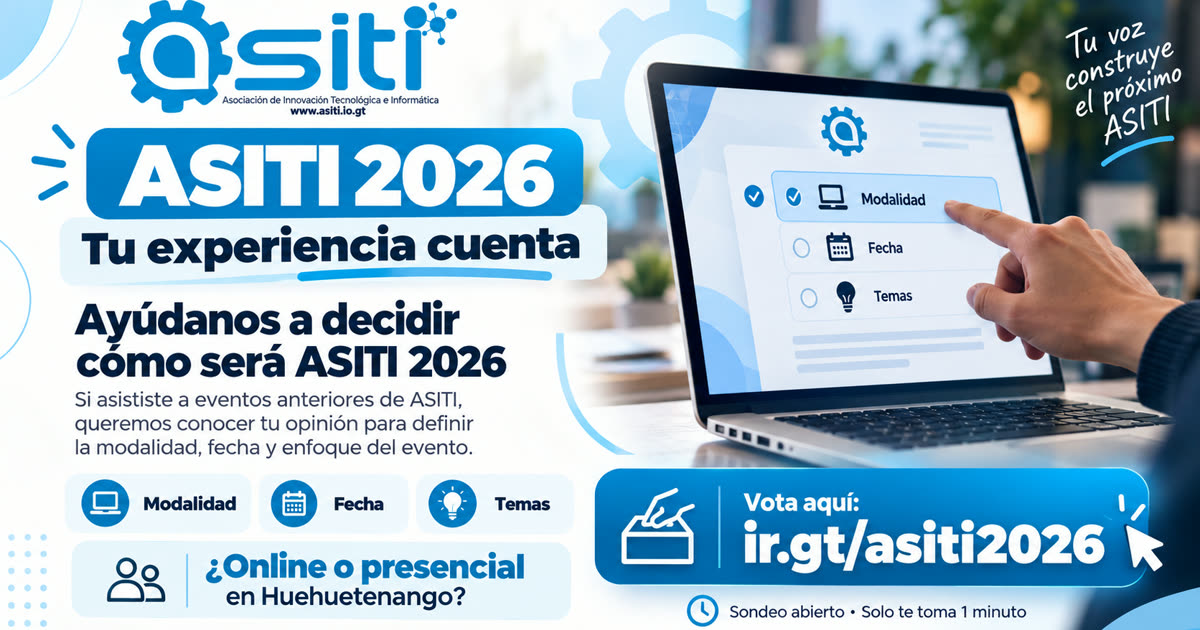
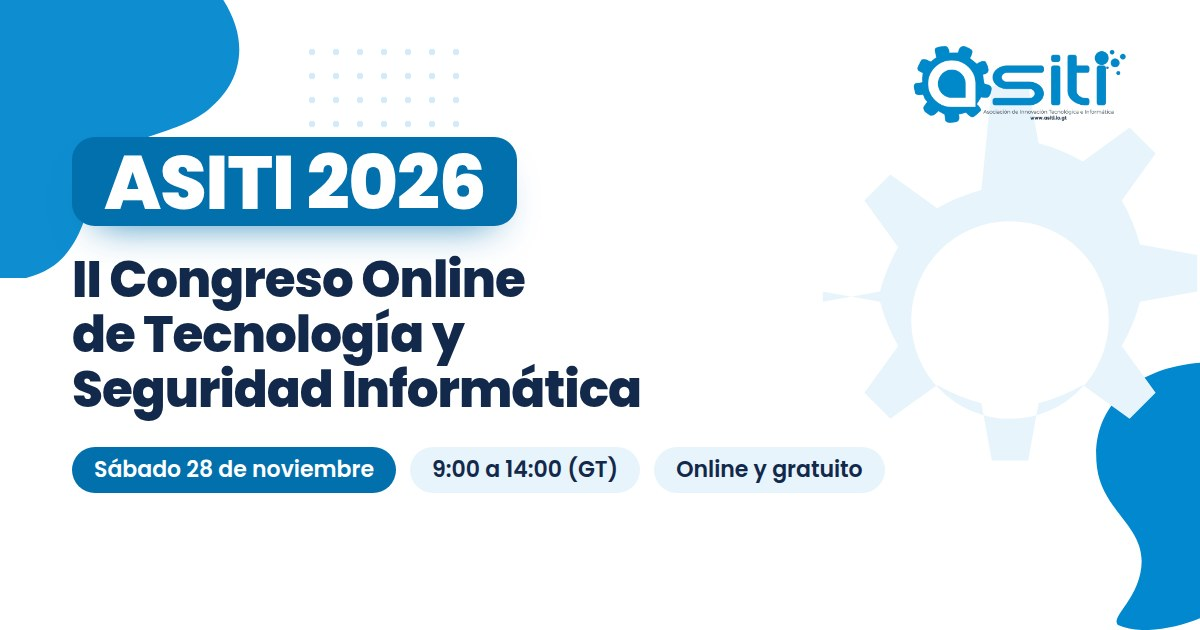
ASITI 2026: home con el congreso online del 28 de noviembre
El sondeo de modalidad y fecha ya cerró. El home anuncia el II Congreso
Online de Tecnología y Seguridad Informática: hero con fecha, horario y
modalidad, botón de inscripción al formulario, y una sección nueva con el
programa de las ocho charlas (hora, ponente, cargo y país).

- Foto de Eduardo García recortada del afiche oficial; Andrés Sabas queda
  con iniciales hasta tener la suya.
- Imagen de compartir rehecha con los datos del evento.
- DESIGN.md y PRODUCT.md al día: la fila del programa sustituye al panel
  del sondeo.

diff --git a/index.html b/index.html
@@ -3,11 +3,11 @@
 <head>
   <meta charset="UTF-8">
   <meta name="viewport" content="width=device-width, initial-scale=1">
-  <title>ASITI 2026 · Congreso anual de tecnología</title>
-  <meta name="description" content="ASITI 2026, el congreso anual de tecnología de la Asociación de Innovación Tecnológica e Informática. Ayúdanos a decidir si es online o presencial en Huehuetenango.">
+  <title>ASITI 2026 · II Congreso Online de Tecnología y Seguridad Informática</title>
+  <meta name="description" content="Sábado 28 de noviembre de 2026, de 9:00 a 14:00 (hora de Guatemala). Ocho charlas de Guatemala, México y El Salvador, en línea y sin costo. Inscripción abierta.">
   <meta name="theme-color" content="#ffffff">
-  <meta property="og:title" content="ASITI 2026 · ¡Ayúdanos a decidir cómo será!">
-  <meta property="og:description" content="¿Online o presencial en Huehuetenango? Vota en el sondeo, solo toma 1 minuto.">
+  <meta property="og:title" content="ASITI 2026 · II Congreso Online de Tecnología y Seguridad Informática">
+  <meta property="og:description" content="Sábado 28 de noviembre, de 9:00 a 14:00. Online y gratuito. Inscríbete.">
   <meta property="og:url" content="https://asiti.io.gt/">
   <meta property="og:type" content="website">
   <meta property="og:image" content="https://asiti.io.gt/img/og-asiti2026.jpg">
@@ -19,6 +19,22 @@
   <link rel="preload" href="fonts/poppins-400.woff2" as="font" type="font/woff2" crossorigin>
   <link rel="stylesheet" href="css/base.css">
   <link rel="stylesheet" href="css/home.css">
+  <script type="application/ld+json">
+  {
+    "@context": "https://schema.org",
+    "@type": "Event",
+    "name": "ASITI 2026 · II Congreso Online de Tecnología y Seguridad Informática",
+    "startDate": "2026-11-28T09:00:00-06:00",
+    "endDate": "2026-11-28T14:00:00-06:00",
+    "eventAttendanceMode": "https://schema.org/OnlineEventAttendanceMode",
+    "eventStatus": "https://schema.org/EventScheduled",
+    "location": { "@type": "VirtualLocation", "url": "https://asiti.io.gt/" },
+    "image": "https://asiti.io.gt/img/og-asiti2026.jpg",
+    "description": "Congreso online y gratuito de tecnología y seguridad informática organizado por ASITI, con ponentes de Guatemala, México y El Salvador.",
+    "organizer": { "@type": "Organization", "name": "ASITI · Asociación de Innovación Tecnológica e Informática", "url": "https://asiti.io.gt/" },
+    "offers": { "@type": "Offer", "price": "0", "priceCurrency": "GTQ", "availability": "https://schema.org/InStock", "url": "https://forms.gle/7Xn9cBGBfVGmVxYY9" }
+  }
+  </script>
 </head>
 <body>
   <a class="skip" href="#contenido">Saltar al contenido</a>
@@ -28,6 +44,7 @@
       <a class="nav__logo" href="./" aria-label="ASITI, inicio"><img src="img/asiti-logo-2026.webp" width="720" height="281" alt="ASITI, Asociación de Innovación Tecnológica e Informática"></a>
       <nav aria-label="Principal">
         <ul class="nav__links">
+          <li><a href="#programa">Programa</a></li>
           <li><a href="#congreso">El congreso</a></li>
           <li><a href="#comunidad">Comunidad</a></li>
           <li><a href="#ponentes">Ponentes</a></li>
@@ -35,7 +52,7 @@
           <li><a href="#contacto">Contacto</a></li>
         </ul>
       </nav>
-      <a class="btn btn--sm" href="https://ir.gt/asiti2026" target="_blank" rel="noopener">Votar</a>
+      <a class="btn btn--sm" href="https://forms.gle/7Xn9cBGBfVGmVxYY9" target="_blank" rel="noopener">Inscribirme</a>
     </div>
   </header>
 
@@ -49,24 +66,23 @@
       </div>
       <div class="wrap hero__inner">
         <div class="hero__copy">
-          <h1 id="titulo"><span class="h1__name">ASITI 2026<svg class="sparks" viewBox="0 0 40 40" aria-hidden="true"><path d="M6 8l9 7M4 21h12M6 34l9-7"/></svg></span> <span class="h1__line">¡Ayúdanos a <span class="swoosh">decidir cómo será</span>!</span></h1>
-          <p class="hero__lede">Nuestro congreso anual de tecnología será a finales de noviembre. Si has estado en eventos de ASITI, queremos tu opinión para definir la modalidad, la fecha y los temas.</p>
+          <h1 id="titulo"><span class="h1__name">ASITI 2026<svg class="sparks" viewBox="0 0 40 40" aria-hidden="true"><path d="M6 8l9 7M4 21h12M6 34l9-7"/></svg></span> <span class="h1__line">II Congreso <span class="swoosh">Online</span> de Tecnología y Seguridad Informática</span></h1>
+          <p class="hero__lede">Ocho charlas de Guatemala, México y El Salvador sobre inteligencia artificial, seguridad, bases de datos, robótica y software libre. En línea, en vivo y sin costo.</p>
           <ul class="facts">
-            <li><svg viewBox="0 0 24 24" aria-hidden="true"><rect x="4" y="5" width="16" height="11" rx="1.5"/><path d="M2.5 19h19"/></svg>Modalidad</li>
-            <li><svg viewBox="0 0 24 24" aria-hidden="true"><rect x="3.5" y="5" width="17" height="15" rx="2"/><path d="M3.5 9.5h17M8 3v4M16 3v4M8 13.5h2M12 13.5h2M16 13.5h.01M8 16.5h2M12 16.5h2"/></svg>Fecha</li>
-            <li><svg viewBox="0 0 24 24" aria-hidden="true"><path d="M9 18h6M10 21h4M12 3a6 6 0 0 0-3.5 10.9c.6.5 1 1.2 1 2V16h5v-.1c0-.8.4-1.5 1-2A6 6 0 0 0 12 3z"/></svg>Temas</li>
+            <li><svg viewBox="0 0 24 24" aria-hidden="true"><rect x="3.5" y="5" width="17" height="15" rx="2"/><path d="M3.5 9.5h17M8 3v4M16 3v4"/></svg>Sábado 28 de noviembre</li>
+            <li><svg viewBox="0 0 24 24" aria-hidden="true"><circle cx="12" cy="12" r="8.5"/><path d="M12 7.5V12l3 2"/></svg>9:00 a 14:00 (Guatemala)</li>
+            <li><svg viewBox="0 0 24 24" aria-hidden="true"><rect x="4" y="5" width="16" height="11" rx="1.5"/><path d="M2.5 19h19"/></svg>Online y gratuito</li>
           </ul>
-          <p class="question"><svg viewBox="0 0 24 24" aria-hidden="true"><circle cx="9" cy="8" r="3.2"/><path d="M3.5 19c0-3.2 2.5-5.5 5.5-5.5s5.5 2.3 5.5 5.5"/><circle cx="17" cy="9" r="2.6"/><path d="M15.5 13.8c.5-.2 1-.3 1.5-.3 2.5 0 4.5 2 4.5 4.8"/></svg><span><strong>¿Online o presencial</strong> en Huehuetenango?</span></p>
           <div class="vote">
-            <a class="btn btn--vote" href="https://ir.gt/asiti2026" target="_blank" rel="noopener">
-              <svg viewBox="0 0 24 24" aria-hidden="true"><path d="M4 13h16v7H4zM8 13l4-9 5 3-3 6M7 16.5h10"/></svg>
-              <span><small>Vota aquí</small>ir.gt/asiti2026</span>
+            <a class="btn btn--vote" href="https://forms.gle/7Xn9cBGBfVGmVxYY9" target="_blank" rel="noopener">
+              <svg viewBox="0 0 24 24" aria-hidden="true"><path d="M4.5 6.5h15v12h-15zM4.5 6.5 12 13l7.5-6.5"/></svg>
+              <span><small>Inscripción abierta</small>Inscríbete gratis</span>
             </a>
-            <p class="vote__note"><svg viewBox="0 0 24 24" aria-hidden="true"><circle cx="12" cy="12" r="8.5"/><path d="M12 7.5V12l3 2"/></svg>Sondeo abierto · Solo te toma 1 minuto</p>
+            <p class="vote__note"><svg viewBox="0 0 24 24" aria-hidden="true"><circle cx="12" cy="12" r="8.5"/><path d="M12 7.5V12l3 2"/></svg>Solo te toma 1 minuto</p>
           </div>
           <div class="crowd">
-            <span class="crowd__faces" aria-hidden="true"><img src="img/people/adrian-catalan.webp" alt="" width="320" height="320"><img src="img/people/mercedes-wyss.webp" alt="" width="320" height="320"><img src="img/people/diego-porras.webp" alt="" width="320" height="320"><img src="img/people/galoget.webp" alt="" width="320" height="320"><img src="img/people/valery-calderon.webp" alt="" width="320" height="320"><img src="img/people/camilo.webp" alt="" width="320" height="320"></span>
-            <a href="#ponentes">Conoce a los 29 ponentes</a>
+            <span class="crowd__faces" aria-hidden="true"><img src="img/people/eduardo-garcia.webp" alt="" width="320" height="320"><img src="img/people/diego-porras.webp" alt="" width="320" height="320"><img src="img/people/ademir-bermudez.webp" alt="" width="320" height="320"><img src="img/people/andres-alonzo.webp" alt="" width="320" height="320"><img src="img/people/mario-garcia.webp" alt="" width="320" height="320"><img src="img/people/valery-calderon.webp" alt="" width="320" height="320"></span>
+            <a href="#programa">Mira el programa completo</a>
           </div>
         </div>
         <div class="hero__aside" aria-hidden="true">
@@ -102,25 +118,75 @@
       </div>
     </section>
 
+    <section class="sec sec--tint" id="programa" aria-labelledby="programa-t">
+      <div class="wrap">
+        <h2 id="programa-t">Programa del sábado 28</h2>
+        <p class="lead">Todo en línea y en vivo, de 9:00 a 14:00, hora de Guatemala. Las charlas se anuncian conforme se confirman.</p>
+        <ol class="agenda">
+          <li>
+            <span class="agenda__time">9:00</span>
+            <span class="agenda__badge"><svg class="agenda__mark" viewBox="0 0 200 200" aria-hidden="true"><path d="M93 10h14l4 22a70 70 0 0 1 17 7l18-13 10 10-13 18a70 70 0 0 1 7 17l22 4v14l-22 4a70 70 0 0 1-7 17l13 18-10 10-18-13a70 70 0 0 1-17 7l-4 22H93l-4-22a70 70 0 0 1-17-7l-18 13-10-10 13-18a70 70 0 0 1-7-17l-22-4V93l22-4a70 70 0 0 1 7-17L44 54l10-10 18 13a70 70 0 0 1 17-7zM100 62a38 38 0 1 0 0 76 38 38 0 0 0 0-76z" fill-rule="evenodd"/></svg></span>
+            <span class="agenda__body"><strong>Bienvenida</strong><span class="agenda__who">ASITI</span><span class="agenda__role">Huehuetenango, Guatemala</span></span>
+          </li>
+          <li>
+            <span class="agenda__time">9:05</span>
+            <img src="img/people/eduardo-garcia.webp" alt="" width="320" height="320" loading="lazy">
+            <span class="agenda__body"><strong>Multi tenancy con PostgreSQL</strong><span class="agenda__who">Eduardo García</span><span class="agenda__role">Ingeniero en desarrollo de software · México</span></span>
+          </li>
+          <li>
+            <span class="agenda__time">9:50</span>
+            <img src="img/people/diego-porras.webp" alt="" width="320" height="320" loading="lazy">
+            <span class="agenda__body"><strong>La IA no te va a salvar: el sendero del hacker en 2026</strong><span class="agenda__who">Diego Porras</span><span class="agenda__role">Hacker · Guatemala</span></span>
+          </li>
+          <li>
+            <span class="agenda__time">10:20</span>
+            <img src="img/people/ademir-bermudez.webp" alt="" width="320" height="320" loading="lazy">
+            <span class="agenda__body"><strong>Sistema robótico autónomo para control de acceso mediante identificación facial y análisis emocional</strong><span class="agenda__who">Ademir Bermúdez</span><span class="agenda__role">El Salvador</span></span>
+          </li>
+          <li>
+            <span class="agenda__time">10:50</span>
+            <img src="img/people/andres-alonzo.webp" alt="" width="320" height="320" loading="lazy">
+            <span class="agenda__body"><strong>AI-native software development lifecycle</strong><span class="agenda__who">Andrés Alonzo</span><span class="agenda__role">Senior software engineer · Guatemala</span></span>
+          </li>
+          <li>
+            <span class="agenda__time">11:20</span>
+            <img src="img/people/mario-garcia.webp" alt="" width="320" height="320" loading="lazy">
+            <span class="agenda__body"><strong>20 años de software libre: lecciones de vida y tecnología</strong><span class="agenda__who">Mario García</span><span class="agenda__role">Desarrollador full-stack y DevOps · México</span></span>
+          </li>
+          <li>
+            <span class="agenda__time">12:05</span>
+            <span class="agenda__badge agenda__initials" aria-hidden="true">AS</span>
+            <span class="agenda__body"><strong>Mamá, hackié tu foco: seis fronteras caídas en un dispositivo IoT</strong><span class="agenda__who">Andrés Sabas</span><span class="agenda__role">Director y cofundador de Electronic Cats · México</span></span>
+          </li>
+          <li>
+            <span class="agenda__time">12:35</span>
+            <img src="img/people/valery-calderon.webp" alt="" width="320" height="320" loading="lazy">
+            <span class="agenda__body"><strong>IA ready data: ¿por qué no hay IA sin una estrategia de datos?</strong><span class="agenda__who">Valeria Calderón Briz</span><span class="agenda__role">Senior data engineer en Mitek Systems · México</span></span>
+          </li>
+        </ol>
+        <p class="cta-line"><a href="https://forms.gle/7Xn9cBGBfVGmVxYY9" target="_blank" rel="noopener">Inscríbete gratis y acompáñanos&nbsp;<svg viewBox="0 0 24 24" aria-hidden="true"><path d="M5 12h14M13 6l6 6-6 6"/></svg></a></p>
+      </div>
+    </section>
+
     <section class="sec" id="congreso" aria-labelledby="congreso-t">
       <div class="wrap split">
         <div>
-          <h2 id="congreso-t">Charlas, talleres y mucha comunidad</h2>
-          <p class="lead">Año con año creamos espacios para aprender, compartir y conectar con la comunidad tecnológica de Guatemala. Este año tú decides cómo lo hacemos.</p>
-          <ul class="topics" aria-label="Temas del sondeo">
-            <li>Ciberseguridad y hacking ético</li>
-            <li>Inteligencia artificial</li>
+          <h2 id="congreso-t">Charlas, comunidad y nada que pagar</h2>
+          <p class="lead">Año con año creamos espacios para aprender, compartir y conectar con la comunidad tecnológica de Guatemala. Esta edición es en línea, para que puedas entrar desde donde estés.</p>
+          <ul class="topics" aria-label="Temas de esta edición">
+            <li>Inteligencia artificial y datos</li>
+            <li>Seguridad informática y hacking</li>
+            <li>Bases de datos</li>
             <li>Desarrollo de software</li>
-            <li>Linux y software libre</li>
-            <li>Redes y telefonía IP</li>
-            <li>Robótica, IoT y Arduino</li>
+            <li>Software libre</li>
+            <li>Robótica, IoT y hardware libre</li>
           </ul>
         </div>
         <dl class="card datalist">
-          <div><dt>Fecha</dt><dd>Sábado 21 o sábado 28 de noviembre <span class="tag">Por decidir</span></dd></div>
-          <div><dt>Modalidad</dt><dd>Online o presencial en Huehuetenango <span class="tag">Por decidir</span></dd></div>
-          <div><dt>Sede</dt><dd>Se anuncia junto con la fecha</dd></div>
-          <div><dt>Ponencias</dt><dd>Convocatoria abierta: propón tu charla o taller en el sondeo</dd></div>
+          <div><dt>Fecha</dt><dd>Sábado 28 de noviembre de 2026</dd></div>
+          <div><dt>Horario</dt><dd>9:00 a 14:00, hora de Guatemala</dd></div>
+          <div><dt>Modalidad</dt><dd>Online, en vivo · Entrada gratuita</dd></div>
+          <div><dt>Inscripción</dt><dd><a href="https://forms.gle/7Xn9cBGBfVGmVxYY9" target="_blank" rel="noopener">Formulario de inscripción</a></dd></div>
         </dl>
       </div>
     </section>
@@ -154,13 +220,13 @@
     <section class="sec" id="ponentes" aria-labelledby="ponentes-t">
       <div class="wrap">
         <h2 id="ponentes-t">Quienes han compartido en ASITI</h2>
-        <p class="lead">29 personas han dado charlas y talleres en ASITI desde 2020 y en FLISOL Huehuetenango 2026.</p>
+        <p class="lead">29 personas han dado charlas y talleres en ASITI desde 2020 y en FLISOL Huehuetenango 2026. Este 28 de noviembre se suman dos nombres nuevos.</p>
         <ul class="speakers">
           <li class="sp"><img src="img/people/adrian-catalan.webp" alt="" width="320" height="320" loading="lazy"><div><strong>Adrián C.</strong><span class="sp__talk">Machine Learning</span><span class="sp__years">2020</span></div></li>
           <li class="sp"><img src="img/people/mercedes-wyss.webp" alt="" width="320" height="320" loading="lazy"><div><strong>Mercedes W.</strong><span class="sp__talk">Computación cuántica</span><span class="sp__years">2020</span></div></li>
           <li class="sp"><img src="img/people/diego-porras.webp" alt="" width="320" height="320" loading="lazy"><div><strong>Diego P.</strong><span class="sp__talk">Amazon, Google, Okta: no hay límites para los latinos</span><span class="sp__years">2021 · 2025 · FLISOL 2026</span></div></li>
           <li class="sp"><img src="img/people/galoget.webp" alt="" width="320" height="320" loading="lazy"><div><strong>Galoget L.</strong><span class="sp__talk">Análisis de malware asistido por IA</span><span class="sp__years">2025</span></div></li>
-          <li class="sp"><img src="img/people/valery-calderon.webp" alt="" width="320" height="320" loading="lazy"><div><strong>Valery C.</strong><span class="sp__talk">Blockchain, la estructura detrás del Bitcoin</span><span class="sp__years">2020</span></div></li>
+          <li class="sp"><img src="img/people/valery-calderon.webp" alt="" width="320" height="320" loading="lazy"><div><strong>Valeria C.</strong><span class="sp__talk">Blockchain, la estructura detrás del Bitcoin</span><span class="sp__years">2020</span></div></li>
           <li class="sp"><img src="img/people/camilo.webp" alt="" width="320" height="320" loading="lazy"><div><strong>Camilo E.</strong><span class="sp__talk">El mercado global del ciberdelito</span><span class="sp__years">2023 · 2025</span></div></li>
           <li class="sp"><img src="img/people/franklin-ramirez.webp" alt="" width="320" height="320" loading="lazy"><div><strong>Franklin R.</strong><span class="sp__talk">Herramientas open source para pentesting</span><span class="sp__years">2021 · 2023 · FLISOL 2026</span></div></li>
           <li class="sp"><img src="img/people/andres-alonzo.webp" alt="" width="320" height="320" loading="lazy"><div><strong>Andrés A.</strong><span class="sp__talk">MCP: herramientas para la IA</span><span class="sp__years">2020 · 2023 · 2025 · FLISOL 2026</span></div></li>
@@ -191,7 +257,7 @@
           <li class="sp"><span class="sp__initials" aria-hidden="true">ZG</span><div><strong>Zaqueo G.</strong><span class="sp__talk">Telefonía IP con Issabel</span><span class="sp__years">FLISOL 2026</span></div></li>
           </ul>
         </details>
-        <p class="cta-line"><a href="https://ir.gt/asiti2026" target="_blank" rel="noopener">¿Quieres dar una charla en 2026? Propónla en el&nbsp;sondeo&nbsp;<svg viewBox="0 0 24 24" aria-hidden="true"><path d="M5 12h14M13 6l6 6-6 6"/></svg></a></p>
+        <p class="cta-line"><a href="mailto:asitiguatemala@gmail.com?subject=Propuesta%20de%20charla%20para%20ASITI">¿Quieres dar una charla en un próximo evento?&nbsp;Escríbenos&nbsp;<svg viewBox="0 0 24 24" aria-hidden="true"><path d="M5 12h14M13 6l6 6-6 6"/></svg></a></p>
       </div>
     </section>
 
@@ -225,7 +291,7 @@
         </div>
         <div class="card sponsor">
           <h3>¿Quieres patrocinar ASITI 2026?</h3>
-          <p>Con tu apoyo el congreso llega a más estudiantes y profesionales de tecnología de Huehuetenango y de todo el país.</p>
+          <p>Con tu apoyo el congreso llega a más estudiantes y profesionales de tecnología de Huehuetenango y de todo el país. Hablemos para la siguiente edición.</p>
           <a class="btn" href="mailto:asitiguatemala@gmail.com?subject=Patrocinio%20ASITI%202026">Contactar para patrocinio</a>
         </div>
       </div>

diff --git a/css/home.css b/css/home.css
@@ -161,6 +161,26 @@ h1, h2, h3 { font-weight: 800; letter-spacing: -0.02em; }
 @media (min-width: 1040px) { .crowd { display: none; } }
 
 
+/* Programa */
+.agenda { display: grid; gap: 0.75rem; margin: 2.25rem 0 0; padding: 0; list-style: none; counter-reset: none; }
+.agenda li { display: grid; grid-template-columns: 4.75rem 76px 1fr; align-items: center; gap: 1.25rem; padding: 1.1rem 1.4rem; border-radius: var(--radius); background: var(--card); border: 1px solid var(--card-line); }
+.agenda__time { font: 700 1.25rem/1 var(--font-display); color: var(--accent-text); font-variant-numeric: tabular-nums; letter-spacing: -0.02em; }
+.agenda img, .agenda__badge { width: 76px; height: 76px; border-radius: 50%; object-fit: cover; border: 3px solid var(--sky); background: var(--track); }
+.agenda__badge { display: grid; place-items: center; }
+.agenda__initials { font: 700 1.125rem/1 var(--font-display); color: var(--accent-text); }
+.agenda__mark { width: 40px; height: 40px; fill: var(--accent-text); }
+.agenda__body strong { display: block; color: var(--heading); font-family: var(--font-display); font-size: 1.0625rem; font-weight: 700; line-height: 1.3; letter-spacing: -0.01em; }
+.agenda__who { display: block; margin-top: 0.3rem; color: var(--text-2); font-size: 0.9375rem; font-weight: 600; }
+.agenda__role { display: block; color: var(--muted); font-size: 0.8125rem; line-height: 1.45; }
+
+@media (max-width: 640px) {
+  .agenda li { grid-template-columns: 60px 1fr; gap: 0.6rem 1rem; padding: 1rem 1.1rem; }
+  .agenda__time { grid-column: 1 / -1; }
+  .agenda img, .agenda__badge { width: 60px; height: 60px; }
+  .agenda__mark { width: 32px; height: 32px; }
+  .agenda__initials { font-size: 1rem; }
+}
+
 .sec--contact { background: #fff; }
 .sec--contact .sponsor { background: var(--sky); border-color: transparent; box-shadow: none; }
 .foot__logo { width: 160px; }

diff --git a/DESIGN.md b/DESIGN.md
@@ -128,12 +128,11 @@ components:
     textColor: "{colors.navy}"
     rounded: "{rounded.pill}"
     padding: "0.05rem 0.55rem"
-  question-panel:
-    backgroundColor: "{colors.sky}"
-    textColor: "{colors.navy}"
-    typography: "{typography.title}"
-    rounded: "{rounded.panel}"
-    padding: "0.85rem 1.25rem"
+  agenda-row:
+    backgroundColor: "{colors.white}"
+    textColor: "{colors.text}"
+    rounded: "{rounded.card}"
+    padding: "1.1rem 1.4rem"
   name-box:
     backgroundColor: "{colors.blue-ink}"
     textColor: "{colors.white}"
@@ -246,7 +245,7 @@ Un azul de marca con su versión de tinta para texto, un azul marino para la voz
 
 Columna centrada de hasta 1180px con margen lateral `clamp(16px, 4vw, 40px)`. Secciones con relleno vertical `clamp(4rem, 9vw, 7rem)` que alternan blanco y `sky`. El patrón de contenido es el split: dos columnas `1.05fr 1fr` desde 900px (texto a la izquierda, tarjeta o gráfica a la derecha), una sola columna debajo, con espacio `clamp(2rem, 5vw, 4rem)`.
 
-**Composición del hero.** Fondo blanco con mancha azul en la esquina superior izquierda (clamp(160px, 22vw, 320px), opacidad 0.95) y otra en el borde derecho inferior; el engrane del logo en `sky` (clamp(320px, 42vw, 620px)) asomando a la derecha; una retícula de puntos `sky-2` (círculos de 3px cada 24px) abajo a la izquierda. A la izquierda, el copy (máx. 760px): caja azul con el nombre del evento y chispas a su derecha; línea en azul marino con subrayado curvo azul bajo las palabras clave; lede; fichas; panel de pregunta; botón de voto con nota de tiempo. A la derecha, desde 1040px, la red de ponentes: columnas `1.3fr 1fr`, una foto central grande y cuatro alrededor unidas por líneas `sky-2` de 3px, con dos puntos sueltos (uno azul, uno `sky-2`), como los nodos del logo. Bajo 700px las manchas se reducen (140px y 96px), los puntos suben a la esquina superior derecha y las chispas se ocultan.
+**Composición del hero.** Fondo blanco con mancha azul en la esquina superior izquierda (clamp(160px, 22vw, 320px), opacidad 0.95) y otra en el borde derecho inferior; el engrane del logo en `sky` (clamp(320px, 42vw, 620px)) asomando a la derecha; una retícula de puntos `sky-2` (círculos de 3px cada 24px) abajo a la izquierda. A la izquierda, el copy (máx. 760px): caja azul con el nombre del evento y chispas a su derecha; línea en azul marino con subrayado curvo azul bajo una palabra clave que nunca parte en dos; lede; fichas de fecha, horario y modalidad; botón de inscripción con nota de tiempo. A la derecha, desde 1040px, la red de ponentes: columnas `1.3fr 1fr`, una foto central grande y cuatro alrededor unidas por líneas `sky-2` de 3px, con dos puntos sueltos (uno azul, uno `sky-2`), como los nodos del logo. Bajo 700px las manchas se reducen (140px y 96px), los puntos suben a la esquina superior derecha y las chispas se ocultan.
 
 La navegación es fija arriba (68px), blanca translúcida con desenfoque; los enlaces se ocultan bajo 860px y queda el logo (128px) con el botón pequeño de votar. La acción principal siempre está a un toque. Los anclajes compensan la barra con `scroll-padding-top: 84px`.
 
@@ -279,12 +278,12 @@ Sólidos, generosos y con brillo azul; el botón es la acción del momento.
 - **Primary:** fondo azul tinta, texto blanco Poppins 600 1rem, relleno 0.75rem 1.5rem, ícono a 1.25em con 0.75rem de separación.
 - **Hover / Focus:** fondo azul profundo y sube 2px con `cubic-bezier(0.16, 1, 0.3, 1)` en 0.2s; `:active` vuelve a 0. Foco global: contorno de 3px azul ASITI con separación de 3px.
 - **Small:** 42px de alto, relleno 0.55rem 1.1rem, 0.9375rem; en la navegación y el pie.
-- **Voto:** 64px de alto, 700 a 1.375rem, ícono de urna de 34px separado por una línea vertical de 1.5px, y una línea pequeña (0.8125rem, 500) encima del enlace corto. A todo el ancho bajo 520px.
+- **Acción principal** (clase `btn--vote`): 64px de alto, 700 a 1.375rem, ícono de 34px separado por una línea vertical de 1.5px, y una línea pequeña (0.8125rem, 500) encima de la llamada. A todo el ancho bajo 520px.
 
 ### Chips
 - **Fichas:** píldora `sky` con texto marino 600 y un ícono blanco dentro de un círculo azul tinta de 34px a la izquierda.
 - **Temas:** píldora `sky` con texto marino 500 a 0.9375rem, sin borde.
-- **Etiqueta "por decidir":** píldora blanca con borde punteado de 1px en el color del texto (marino), 0.75rem 600, junto al dato pendiente.
+- **Etiqueta "por decidir":** píldora blanca con borde punteado de 1px en el color del texto (marino), 0.75rem 600, junto a un dato pendiente. Sin uso mientras no haya datos sin confirmar.
 
 ### Cards / Containers
 - **Corner Style:** 22px.
@@ -301,8 +300,8 @@ Sólidos, generosos y con brillo azul; el botón es la acción del momento.
 ### Navigation
 Barra fija de 68px, blanca al 88% con `saturate(1.4) blur(10px)` y línea inferior marina al 8%. Logo azul a 150px a la izquierda, enlaces marinos 500 a 0.9375rem que pasan a azul tinta en hover, y el botón pequeño de votar a la derecha. Bajo 860px solo quedan logo y botón.
 
-### Pregunta del sondeo
-Panel `sky` de 18px de radio con un ícono de personas de 34px en marino, pregunta en Title marino y las palabras de la decisión en azul tinta.
+### Fila del programa
+Fila tarjeta de 22px en cuadrícula `4.75rem 76px 1fr`: hora en Poppins 700 1.25rem azul tinta con cifras tabulares, foto circular de 76px con borde `sky` de 3px (o círculo `sky` con iniciales o el engrane cuando no hay foto), título de la charla en Poppins 700 1.0625rem marino, ponente en 600 `text-2` y cargo con país en caption `muted`. Bajo 640px la hora pasa a su propia línea y la foto baja a 60px.
 
 ### Gráfica de barras
 Tarjeta con título 600 marino, filas de nombre (8.5rem), pista `sky-2` de 10px en píldora con relleno azul ASITI proporcional (mínimo 6px) y número tabular a la derecha; fuente en caption `muted` al pie.

diff --git a/PRODUCT.md b/PRODUCT.md
@@ -28,7 +28,7 @@ Comunidad tecnológica local de Huehuetenango que organiza año con año un cong
 
 ## Operating Context
 
-- Evento vigente: ASITI 2026, congreso anual, finales de noviembre 2026; modalidad (online o presencial en Huehuetenango) y fecha (sáb 21 o 28) en sondeo vía https://ir.gt/asiti2026.
+- Evento vigente: **ASITI 2026, II Congreso Online de Tecnología y Seguridad Informática**, sábado 28 de noviembre de 2026, 9:00 a 14:00 hora de Guatemala, online y gratuito. Inscripción: https://forms.gle/7Xn9cBGBfVGmVxYY9. El sondeo de modalidad y fecha (https://ir.gt/asiti2026) ya cumplió su función y salió del sitio.
 - Eventos anteriores con página propia: ASITI 2023 (`2023.html`), ASITI 2025 (`2025.html`, online), FLISOL 2026 (`flisol2026.html`, 17 de mayo de 2026, Universidad Da Vinci).
 - Registro y sondeos con Google Forms; enlaces cortos con ir.gt; difusión por SMS, correo, Facebook y Telegram.
 - Contacto: asitiguatemala@gmail.com. Redes: facebook.com/ASITIH, x.com/AsitiHuehue, instagram.com/asitihuehue7, YouTube @asitihuehuetenango1524, LinkedIn asitihuehue, t.me/asitihuehue.
@@ -38,7 +38,7 @@ Comunidad tecnológica local de Huehuetenango que organiza año con año un cong
 - Sitio estático (HTML, CSS, JS) publicado con GitHub Pages en el dominio asiti.io.gt; repo ASITIGT/asiti.github.io.
 - El menú se comparte entre páginas con `includes/header.html` + `js/shared-header.js`.
 - Sin datos personales en el repo: los CSV de asistentes están en `.gitignore`.
-- Sin decidir todavía: fecha final, modalidad, sede y agenda de ASITI 2026.
+- Fecha, modalidad y programa de ASITI 2026 ya están decididos y publicados; el cartel sigue abierto a más ponentes.
 
 ## Brand Commitments
 
@@ -56,7 +56,7 @@ Comunidad tecnológica local de Huehuetenango que organiza año con año un cong
 
 ## Product Principles
 
-1. La acción del momento (sondeo, inscripción) siempre a un toque, sobre todo en celular.
+1. La acción del momento (hoy, la inscripción) siempre a un toque, sobre todo en celular.
 2. Rápido en conexiones móviles de Guatemala: nada pesado que no aporte.
 3. Legible para todos: texto con buen contraste sobre cualquier fondo.
 4. La trayectoria se demuestra con eventos reales, no con promesas.
